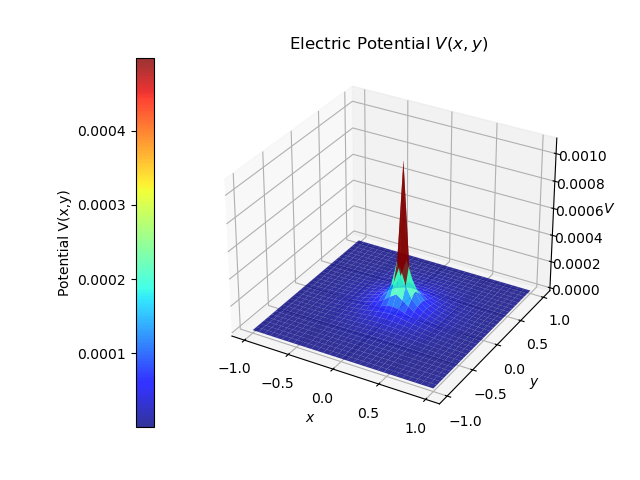
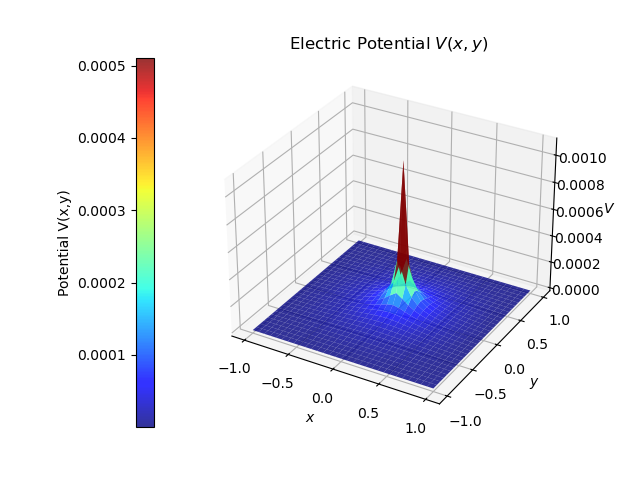
gauss-seidel and sor methods implemented

diff --git a/Campos Elétricos/potential_solver.py b/Campos Elétricos/potential_solver.py
@@ -1,15 +1,25 @@
 import numpy as np
 
-def update_V(V, ρ):
+def update_V(V, ρ, method):
     """
-    Function that receives a potential V and aplies the Jacobi method to it
+    Function that receives a potential V and a charge distribution and aplies chosen method to it
     and calculates the absolute difference between the new and old potentials.
 
     Returns:
     - `V_new`: Array with the new potential calculate by the Jacobi method,
     - 'ΔV': Float of the absolute difference between the potential received and the calculated.
     """
+    if (method == "Jacobi"):
+        V_new, ΔV = jacobi_method(V, ρ)
+    elif (method == "GS"):
+        V_new, ΔV = gauss_seidel_method(V, ρ)
+    elif (method == "SOR"):
+        V_new, ΔV = sor_method(V, ρ)
         
+    return V_new, ΔV
+
+def jacobi_method(V, ρ):
+
     # Total (cumulative) change in V during this update loop
     ΔV = 0
 
@@ -21,10 +31,10 @@ def update_V(V, ρ):
 
     # Step size
     dx = 2.0 / (N - 1)
-    
-    # Loop through all values (i,j) except the boundary, where the values are fixed
+
+    V_new = np.copy(V)
+    # Loop through all values (i,j, k) except the boundary, where the values are fixed
     if dim == 2:
-        V_new = np.copy(V)
         for i in range(1, N-1):
             for j in range(1, N-1):
                 if (abs(V[i, j]) != 1):
@@ -32,7 +42,6 @@ def update_V(V, ρ):
                                 V[i, j+1] + V[i, j-1] + ρ[i, j]*(dx**2)) / 4
                     ΔV += abs(V_new[i, j] - V[i, j])
     elif dim == 3:
-        V_new = np.copy(V)
         for i in range(1, N-1):
             for j in range(1, N-1):
                 for k in range(1, N-1):
@@ -42,8 +51,71 @@ def update_V(V, ρ):
                     ΔV += abs(V_new[i, j, k] - V[i, j, k])
     return V_new, ΔV
 
+def gauss_seidel_method(V, ρ):
 
-def laplace_calculate(V, ρ):
+    # Total (cumulative) change in V during this update loop
+    ΔV = 0
+
+    # Dimension of the potential
+    dim = len(V.shape)
+
+    # Number of sites along a direction
+    N = V.shape[0]
+
+    # Step size
+    dx = 2.0 / (N - 1)
+
+    V_new = np.copy(V)
+    # Loop through all values (i,j, k) except the boundary, where the values are fixed
+    if dim == 2:
+        for i in range(1, N-1):
+            for j in range(1, N-1):
+                if (abs(V[i, j]) != 1):
+                    V_new[i, j] = (V[i+1, j] + V_new[i-1, j] +
+                                V[i, j+1] + V_new[i, j-1] + ρ[i, j]*(dx**2)) / 4
+                    ΔV += abs(V_new[i, j] - V[i, j])
+    elif dim == 3:
+        for i in range(1, N-1):
+            for j in range(1, N-1):
+                for k in range(1, N-1):
+                    V_new[i, j, k] = (V[i+1, j, k] + V_new[i-1, j, k] +
+                                V[i, j+1, k] + V_new[i, j-1, k] +
+                                V[i, j, k+1] + V_new[i, j, k-1] + ρ[i, j, k]*(dx**2)) / 6
+                    ΔV += abs(V_new[i, j, k] - V[i, j, k])
+    return V_new, ΔV
+
+def sor_method(V, ρ):
+
+    # Number of sites along a direction
+    N = V.shape[0]
+
+    # Dimension of the potential
+    dim = len(V.shape)
+
+    α = 1.5
+
+    V_new = np.copy(V)
+    V_new, ΔV = gauss_seidel_method(V, ρ)
+
+    V_new = α * (V_new - V) + V
+
+    # Total (cumulative) change in V during this update loop
+    ΔV = 0
+
+    # Loop through all values (i,j, k) except the boundary, where the values are fixed
+    if dim == 2:
+        for i in range(1, N-1):
+            for j in range(1, N-1):
+                ΔV += abs(V_new[i, j] - V[i, j])
+    elif dim == 3:
+        for i in range(1, N-1):
+            for j in range(1, N-1):
+                for k in range(1, N-1):
+                    ΔV += abs(V_new[i, j, k] - V[i, j, k])
+    return V_new, ΔV
+
+
+def laplace_calculate(V, ρ, method):
     """
     Function that aplies the relaxation method to a initial potential V
     until the new potential is within the tolerance range.
@@ -58,12 +130,12 @@ def laplace_calculate(V, ρ):
 
     # Perform 10 iterations initially
     for _ in range(10):
-        V_new, ΔV = update_V(V, ρ)
-        V, ΔV = update_V(V_new, ρ)
+        V_new, ΔV = update_V(V, ρ, method)
+        V, ΔV = update_V(V_new, ρ, method)
 
     # Continue iterating until ΔV is less than ε
     while ΔV < ε:
-        V_new, ΔV = update_V(V, ρ)
-        V, ΔV = update_V(V_new, ρ)
+        V_new, ΔV = update_V(V, ρ, method)
+        V, ΔV = update_V(V_new, ρ, method)
 
     return V

diff --git a/Campos Elétricos/potential_initializer.py b/Campos Elétricos/potential_initializer.py
@@ -8,6 +8,7 @@ def initialize_V_box(V1, V2, N):
 
     Returns:
     - `V`: Array with the proper boundary for the specified problem
+    - `ρ`: Array with the charge distribution for the specified problem
     """
     # Create an initial guess for the potential (N x N grid)
     V = np.zeros((N, N))
@@ -40,6 +41,7 @@ def initialize_V_capacitor(V1, V2, N):
 
     Returns:
     - `V`: Array with the proper boundary for the specified problem
+    - `ρ`: Array with the charge distribution for the specified problem
     """
     # Create an initial guess for the potential (N x N grid)
     V = np.zeros((N, N))
@@ -57,11 +59,12 @@ def initialize_V_capacitor(V1, V2, N):
 
 def initialize_V_box_charge(N):
     """
-    Initialize an electric potential of a capacitor with the plates having potentials V1 and V2.
-    The potential grid has dimensions N x N.
+    Initialize an electric potential of a cubic box and a point charge in the center.
+    The potential grid and the charge grid has dimensions N x N x N.
 
     Returns:
     - `V`: Array with the proper boundary for the specified problem
+    - `ρ`: Array with the charge distribution for the specified problem
     """
     # Create an initial guess for the potential (N x N x N grid)
     V = np.zeros((N, N, N))

diff --git a/Campos Elétricos/main.py b/Campos Elétricos/main.py
@@ -8,6 +8,8 @@ V2 = 1.0
 N = 31
 Lx = 2.0
 Ly = 2.0
+methods = ["Jacobi", "GS", "SOR"]
+method = methods[2]
 
 # Initialize the potential box
 V, ρ = PotentialInitializer.initialize_V_box_charge(N)
@@ -16,7 +18,7 @@ dim = len(V.shape)
 
 if dim == 2:
     # Solve using Jacobi method
-    V_final = PotentialSolver.laplace_calculate(V, ρ)
+    V_final = PotentialSolver.laplace_calculate(V, ρ, method)
 
     # Plot results
     PotentialPlots.equipotential_lines(V_final, Lx, Ly)
@@ -24,8 +26,8 @@ if dim == 2:
     PotentialPlots.electric_field(V_final, Lx, Ly)
 elif dim ==3:
     for _ in range(100):
-        V_new, ΔV = PotentialSolver.update_V(V, ρ)
-        V, ΔV = PotentialSolver.update_V(V_new, ρ)
+        V_new, ΔV = PotentialSolver.update_V(V, ρ, method)
+        V, ΔV = PotentialSolver.update_V(V_new, ρ, method)
     V_final = V
 
     z0 = int((N-1)/2) + 1
